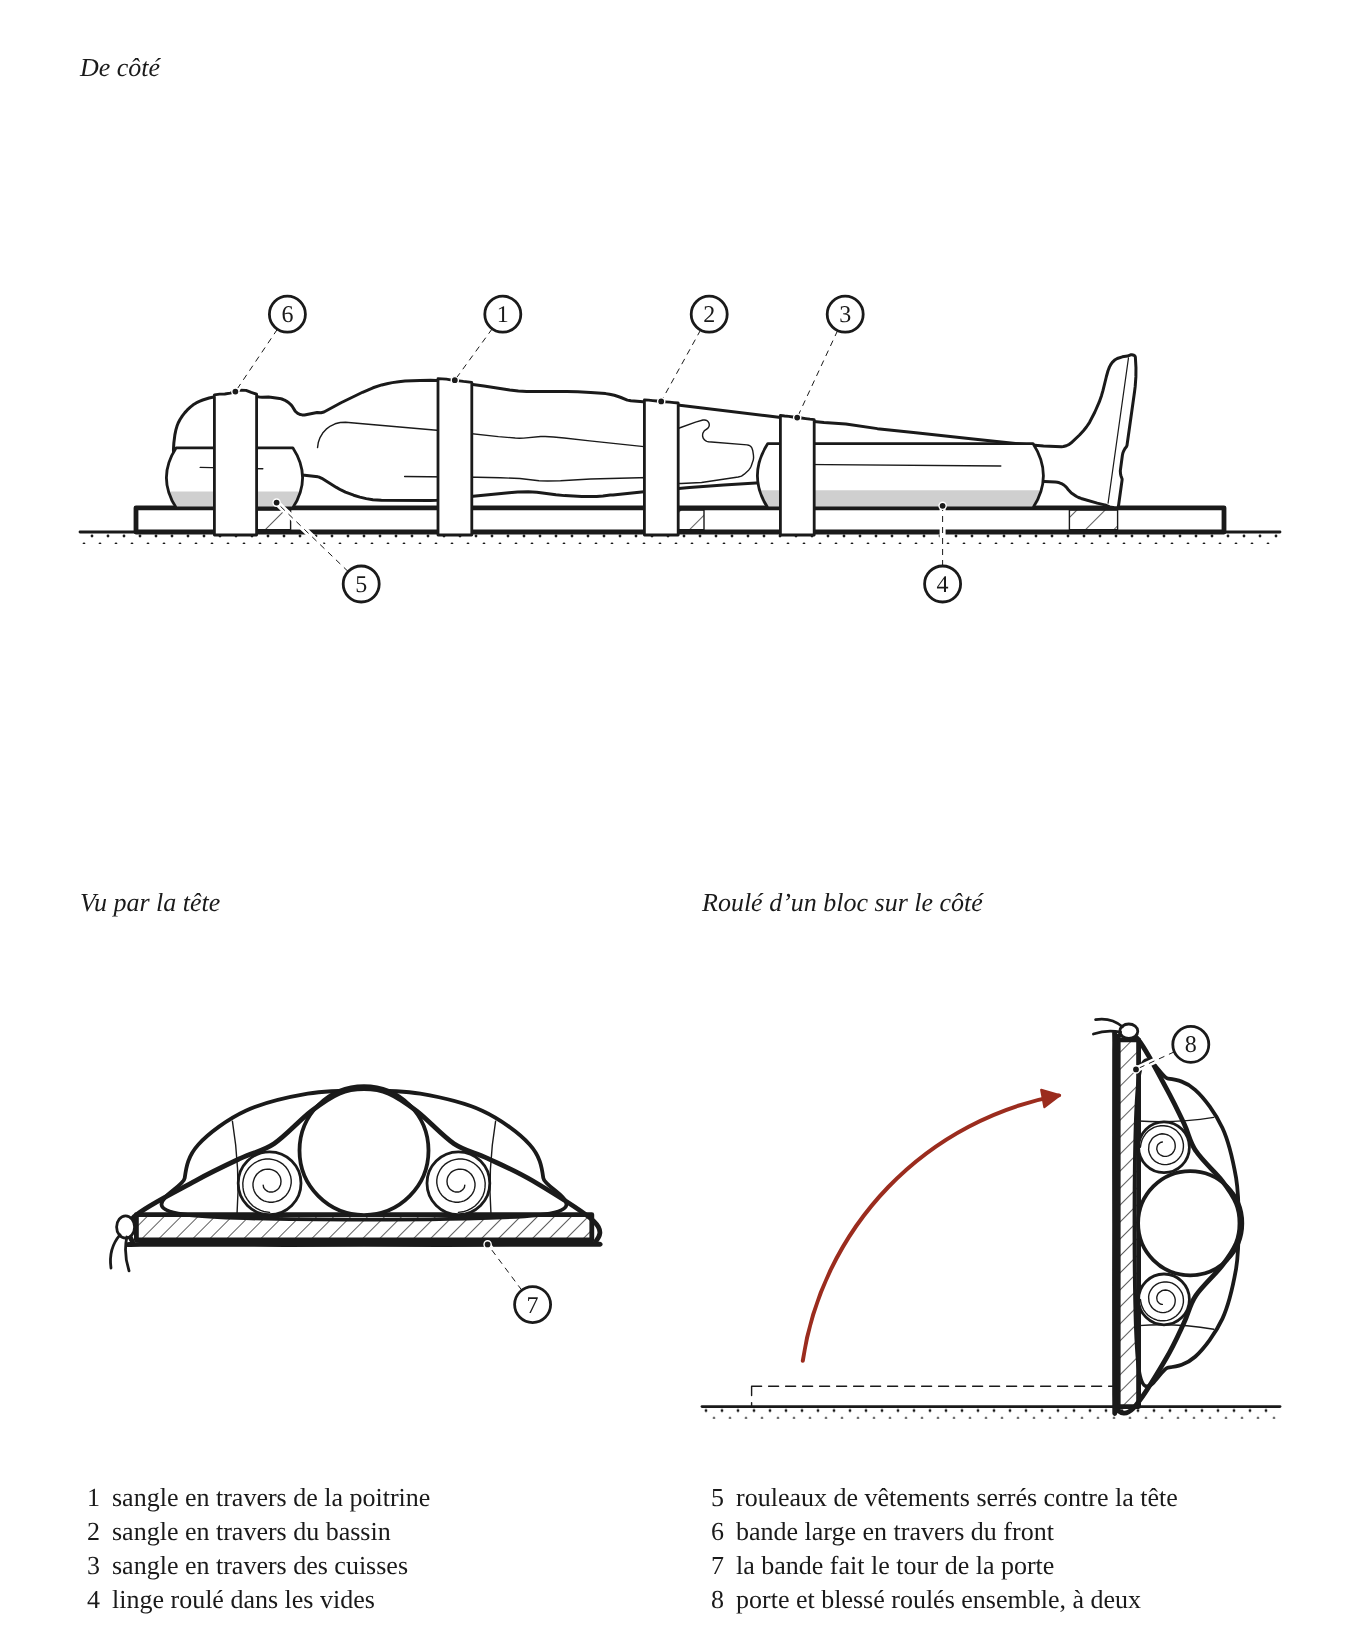
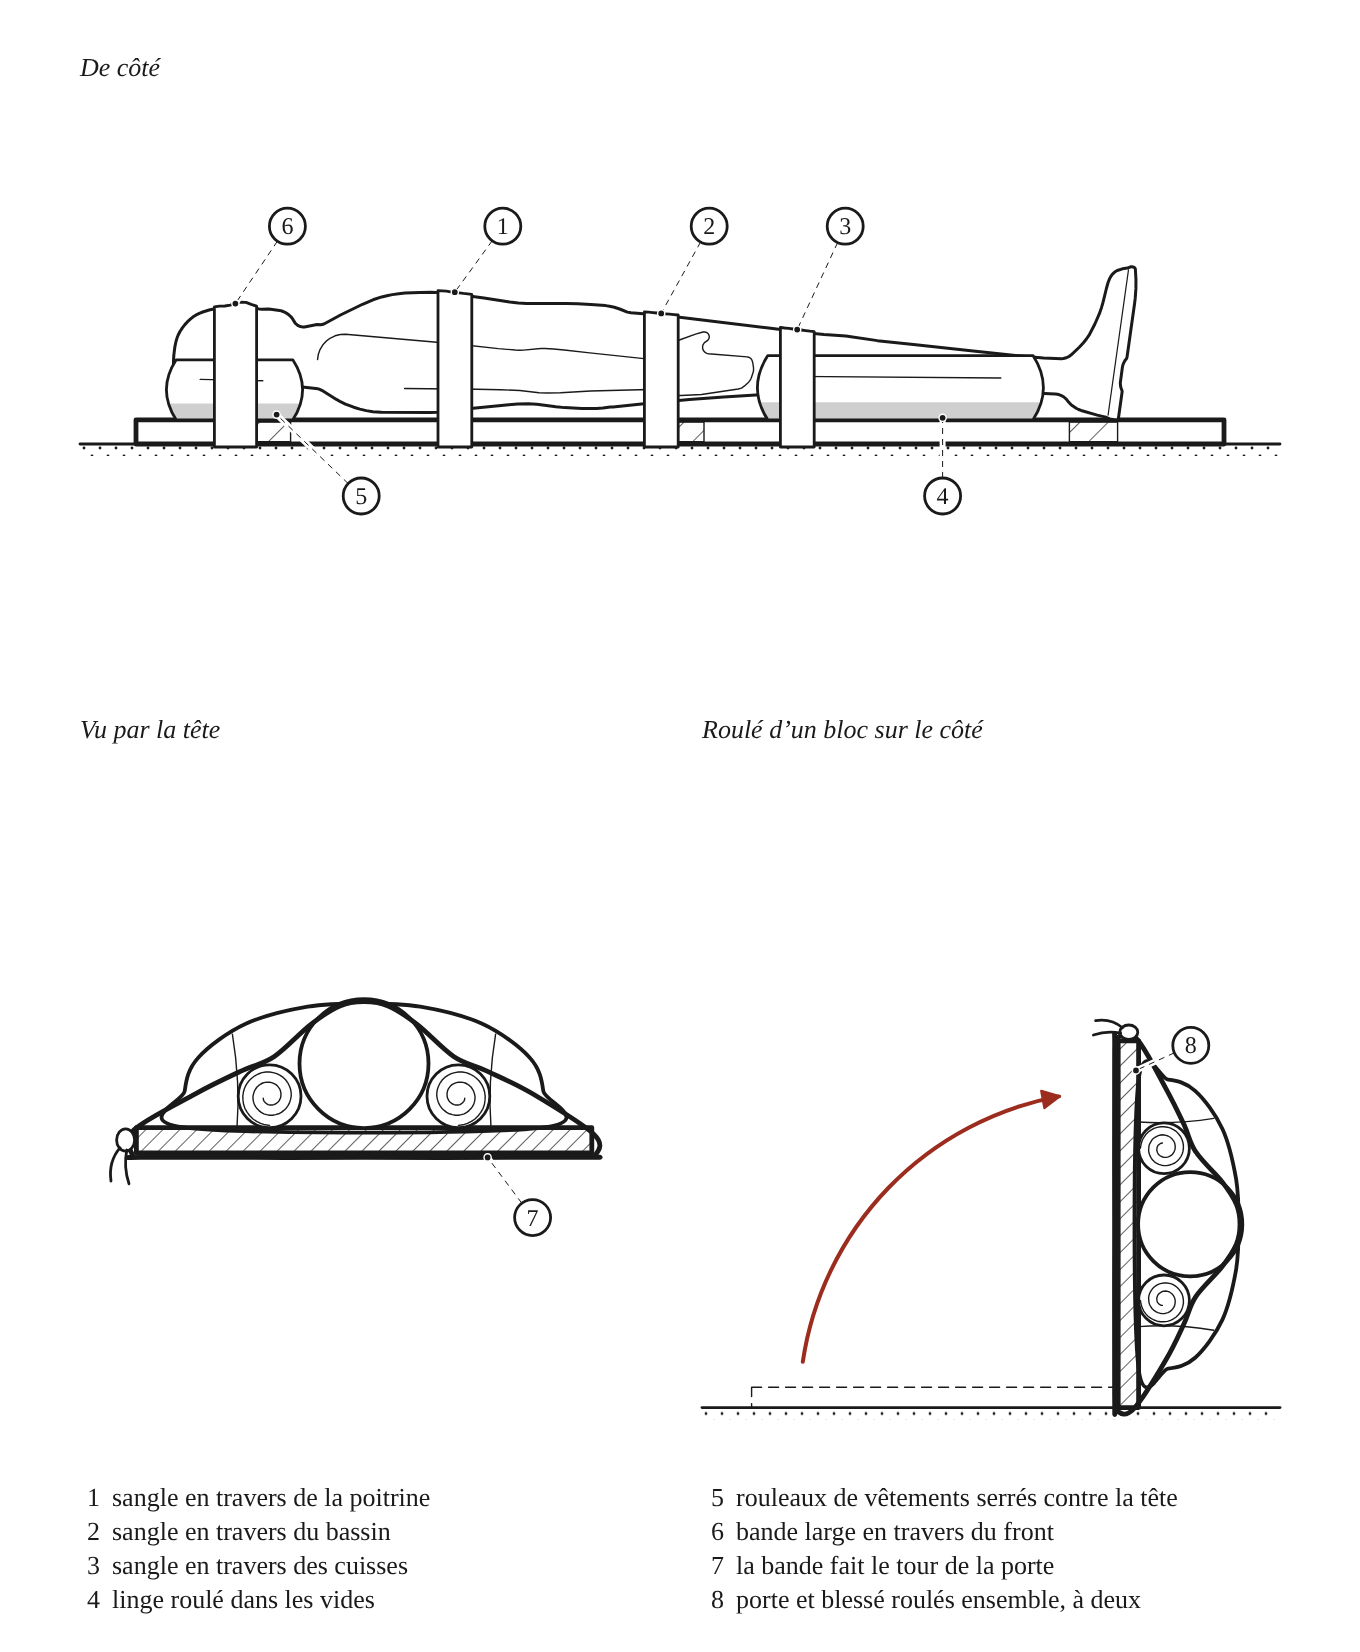
Planche 26-09b : la page rééquilibrée sans l'encadré danger
Claude-Session: https://claude.ai/code/session_01M6kvqZriUyyeZ552wYGHHH

diff --git a/images/planches-src/26-09b.js b/images/planches-src/26-09b.js
@@ -140,7 +140,7 @@ module.exports = (h) => {
     desc: 'Une porte dégondée sert de planche. De côté, la porte posée sur la neige, les pentures dans son chant : le blessé couché sur le dos, sanglé en travers de la poitrine, du bassin et des cuisses, chaque sangle passant par-dessus lui et sous la porte ; du linge roulé contre les jambes, un rouleau de vêtements contre la tête et une bande large en travers du front. Vue par la tête : les rouleaux serrés contre les tempes et la bande qui passe sur le front et fait le tour de la porte. Enfin, porte et blessé roulés ensemble sur la tranche, d’un bloc, une flèche rouge pour le mouvement.',
     format: 'pleine',
     disposition: [['cote'], ['tete', 'roule']],
-    hauteurs: [1, 0.7],
+    hauteurs: [0.85, 1],
     largeurs: [[1], [1, 1]],
     vues: {
       cote: {
